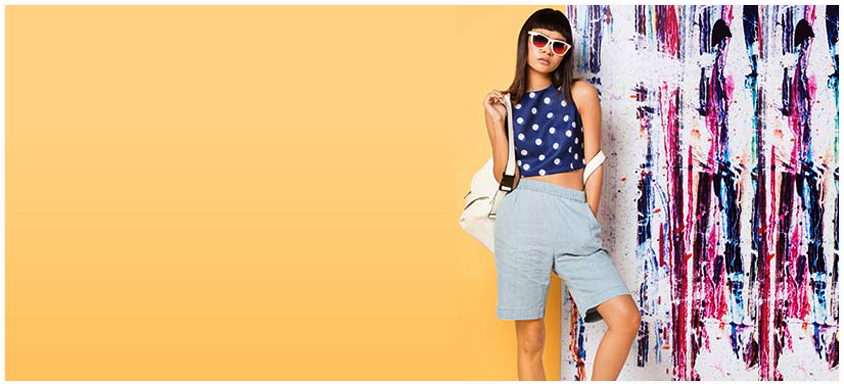
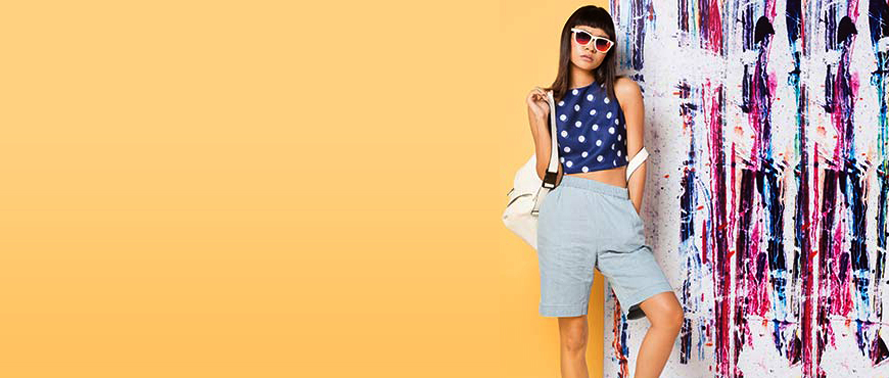
end main

diff --git a/css/style.css b/css/style.css
@@ -247,7 +247,9 @@ body {
 }
 
 .menu {
+    width: 298px;
     padding: 17px 25px;
+    padding-right: 15px;
     font-size: 15px;
     background-color: var(--light);
 }
@@ -264,13 +266,15 @@ body {
     margin-top: 19px;
 } */
 .menu__line {
+    width: 100%;
     margin-bottom: 16px;
 }
 
 .banner {
-    background-image: url("../img/Main/main-bg.png");
-    background-position: top;
+    background-image: url("../img/Main/main-bg-full.png");
+    background-position: top -5px right -5px;
     background-repeat: no-repeat;
+
 }
 
 .banner__footer {
@@ -282,14 +286,66 @@ body {
     background-color: var(--accent-color);
 }
 
-.banner__footer .post {
+.banner__footer .post  {
     display: flex;
     align-items: center;
     flex-direction: column;
     justify-content: center;
 }
+
+.banner__offer {
+    display: flex;
+    align-items: center;
+    flex-direction: column;
+    margin-bottom: 70px;
+    padding-top: 88px;
+    padding-right: 350px;
+}
+
 .banner__footer .post .title {
     font-weight: bold;
     text-transform: uppercase;
     letter-spacing: 3px;
+}
+
+.banner__title {
+    color: #303a7a;
+    font-size: 40px;
+    font-weight: 900;
+    text-transform: uppercase;
+    letter-spacing: -1.5px;
+    line-height: 40px;
+    margin: 0;
+}
+.banner__descr1 {
+    color: var(--light);
+    font-size: 60px;
+    font-weight: 900;
+    text-transform: uppercase;
+    margin-top: -2px;
+}
+
+.banner__descr2 {
+    color: var(--light);
+    font-size: 20px;
+    font-weight: 900;
+    text-transform: uppercase;
+    letter-spacing: 1px;
+    margin-top: -2px;
+    margin-bottom: 46px;
+}
+
+.banner__btn {
+    padding: 9px 15px 8px 25px;
+    border: 3px solid var(--dark-color);
+    background: transparent;
+}
+
+.banner__btn .title {
+    letter-spacing: -1px;
+    margin: 0;
+}
+
+.banner__footer .post {
+    padding: 22px 47px;
 }

diff --git a/index.html b/index.html
@@ -76,13 +76,13 @@
 
             <div class="banner">
                 <div class="banner__offer">
-                    <h1 class="baner__title">collection 2016</h1>
+                    <p class="banner__title">collection 2016</p>
                     <p class="banner__descr1">save 50% for</p>
                     <p class="banner__descr2">first purchase</p>
+                    <button class="banner__btn">
+                        <h3 class="title">SHOP NOW</h3>
+                    </button>
                 </div>
-                <button class="baner__btn">
-                    <h3 class="title">SHOP NOW</h3>
-                </button>
                 <div class="banner__footer">
                     <div class="post">
                         <p class="title">money back</p>
